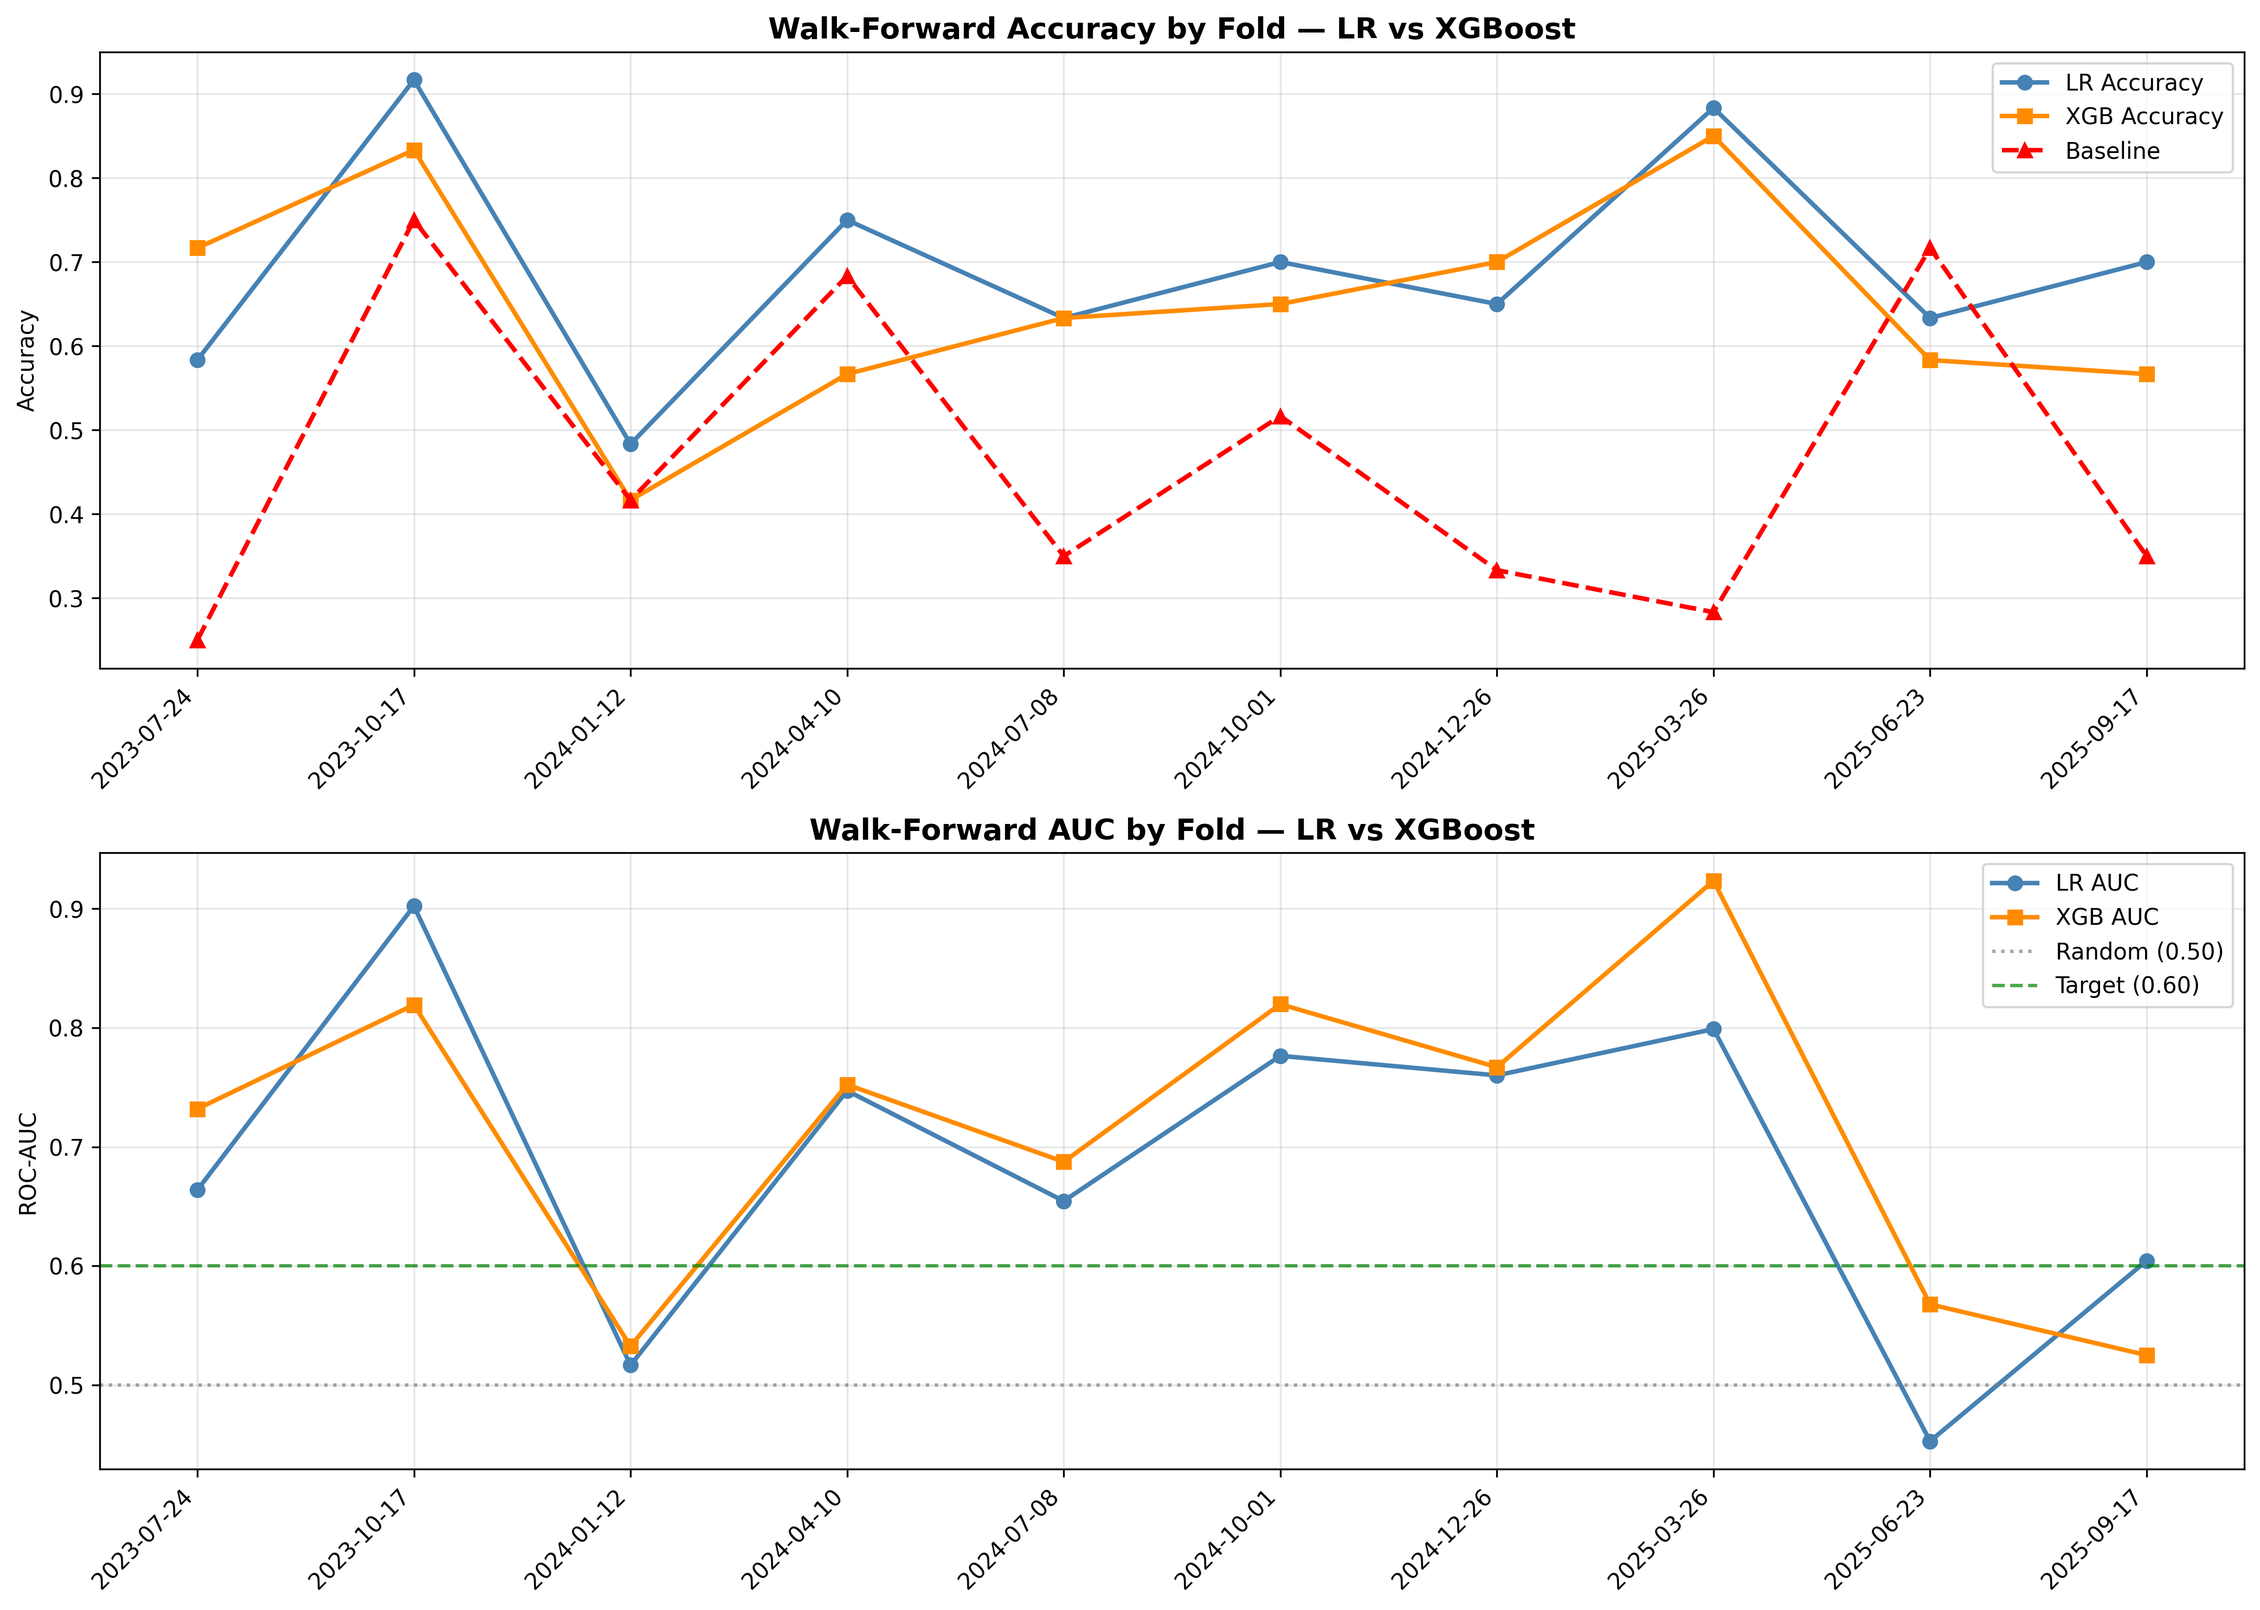
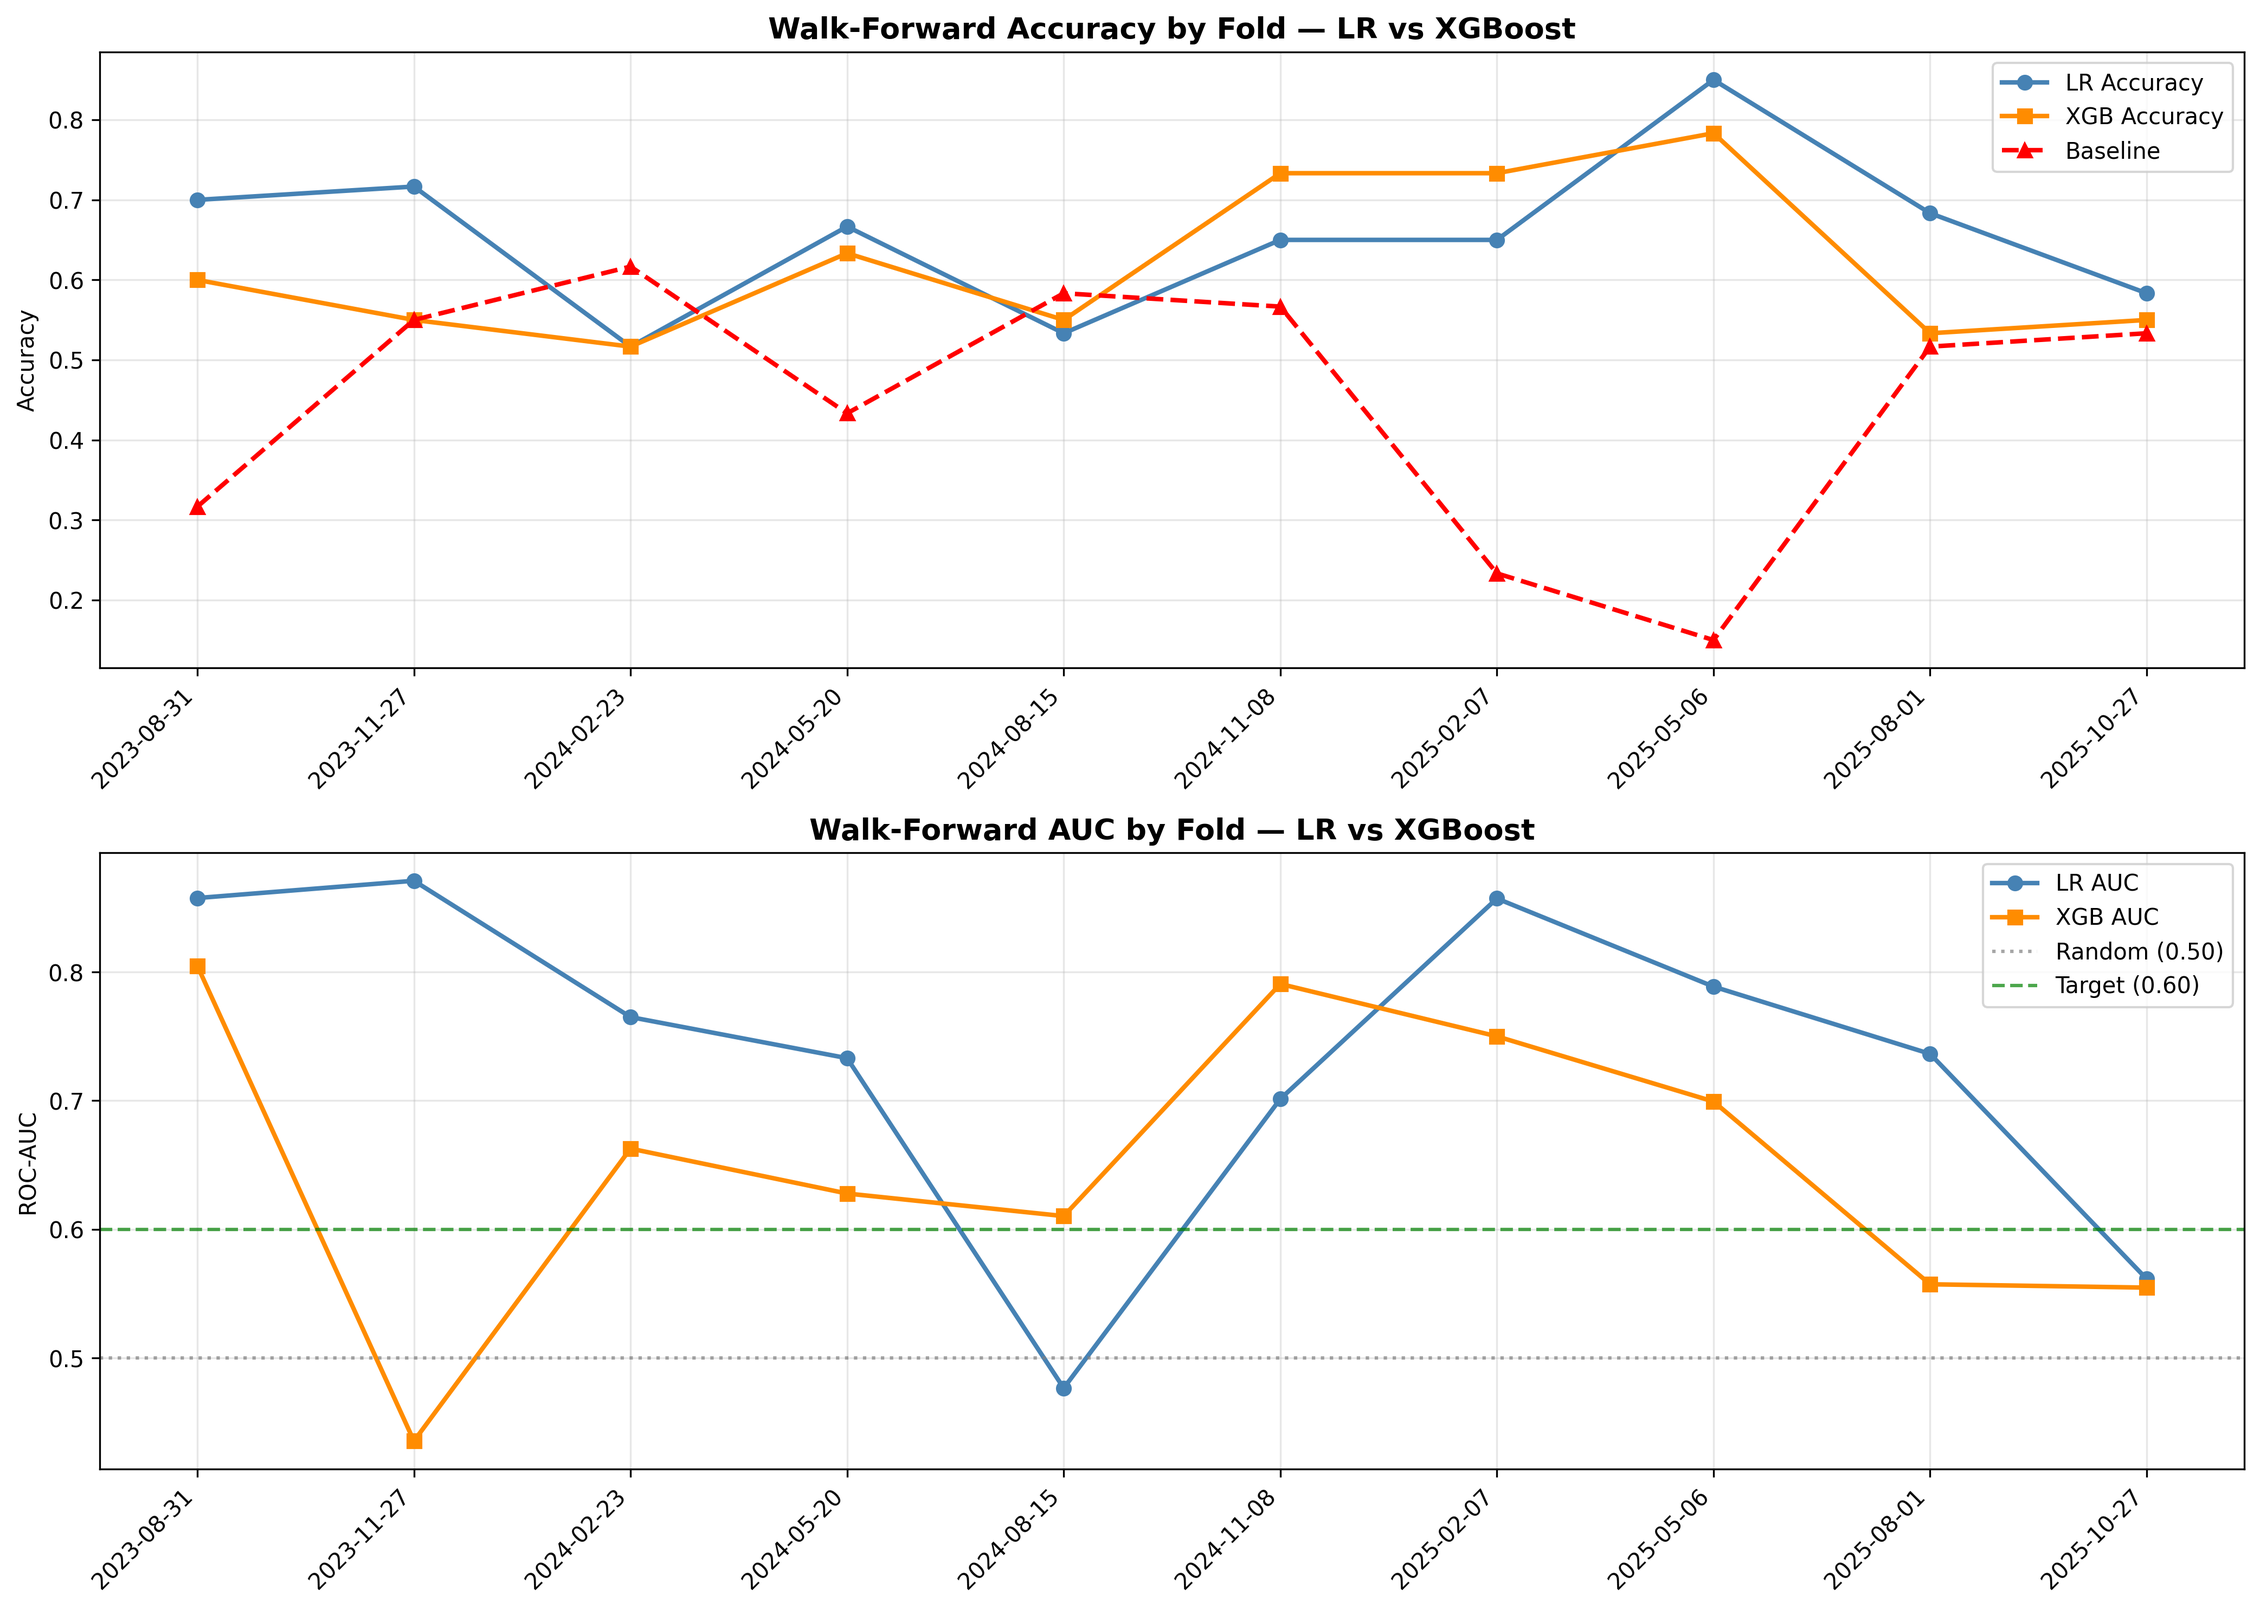
Update README and walk-forward results with 18-feature model
Made-with: Cursor

diff --git a/README.md b/README.md
@@ -1,33 +1,72 @@
 # Volatility Regime Predictor
 
-End-to-end ML pipeline for predicting S&P 500 volatility regimes using
-Logistic Regression, XGBoost, and an Ensemble model — validated with
-walk-forward cross-validation across 10 out-of-sample periods.
+End-to-end ML pipeline that predicts whether the S&P 500 will enter a
+**high or low volatility regime** over the next 10 trading days — and runs
+a fresh prediction every day with a live options strategy signal.
 
-**Avg Ensemble AUC: 0.722 | Beats baseline in 9/10 walk-forward folds**
+Built with Logistic Regression + XGBoost ensemble, validated with
+walk-forward cross-validation across 10 out-of-sample periods spanning 2023–2026.
+
+**Avg Ensemble AUC: 0.730 | Beats baseline in 9/10 walk-forward folds | +20pp accuracy improvement over baseline**
 
 ---
 
-## Results
+## Results (Walk-Forward Validation)
+
+> Walk-forward validation simulates real trading: models are trained only on past data
+> and evaluated on future unseen periods. No lookahead bias.
 
 | Model | Avg AUC | Avg Accuracy | Folds Beat Baseline |
 |-------|---------|--------------|---------------------|
-| Logistic Regression | 0.688 | 69.3% | 9 / 10 |
-| XGBoost | 0.713 | 65.2% | 7 / 10 |
-| **Ensemble** | **0.722** | **67.8%** | **8 / 10** |
+| Logistic Regression | 0.735 | 65.5% | 8 / 10 |
+| XGBoost | 0.649 | 61.8% | 7 / 10 |
+| **Ensemble** | **0.730** | **62.7%** | **9 / 10** |
+
+Avg baseline (predict majority class): **45.0%**
 
 ---
 
 ## Key Findings
 
-- **Direction prediction failed** (AUC ≈ 0.49) — consistent with the
-  Efficient Market Hypothesis
-- **Volatility regime prediction works** (Avg AUC 0.722) — volatility
-  clusters, and VIX-based features capture this signal
-- **Best signal during market stress** — Ensemble AUC hit 0.974 during
-  the April 2025 tariff-driven volatility spike
-- **Known limitation** — models struggle after sudden volatility collapse
-  (Summer 2025 post-tariff calm)
+- **Direction prediction doesn't work** (AUC ≈ 0.50) — consistent with EMH
+- **Volatility regime prediction does** (Avg AUC 0.730) — vol clusters, and
+  VIX-based features capture this reliably
+- **Strongest signal during stress** — Ensemble AUC hit 0.908 during the
+  Feb–May 2025 tariff-driven volatility spike
+- **Known edge case** — models lag after sudden vol collapse (post-stress
+  calm periods), a structural challenge for any regime model
+
+---
+
+## Daily Prediction
+
+Running `predict_today.py` downloads fresh market data, computes all features,
+and outputs a calibrated probability with an options strategy signal:
+
+```
+TODAY'S VOLATILITY REGIME PREDICTION
+
+Run time: 2026-04-13 13:26:26
+
+Prediction for: 2026-04-13
+   SPY Close:   $686.13
+   VIX Level:   19.18
+   Realized Vol (20d): 19.7%
+
+Model Probabilities (High Vol):
+   Logistic Regression: 0.327
+   XGBoost:             0.163
+   Ensemble:            0.245
+
+Predicted Regime:   LOW VOLATILITY
+   High-vol probability: 24.5%  [Strong]
+
+Options Implication:
+   → Consider SHORT options (iron condors, covered calls)
+   → Low vol expected — collect theta decay
+```
+
+Predictions are logged to `prediction_log.csv` with deduplication on same-day re-runs.
 
 ---
 
@@ -38,48 +77,71 @@ walk-forward cross-validation across 10 out-of-sample periods.
 | High vol regime predicted | Long options (straddles, strangles) | Benefit from IV expansion |
 | Low vol regime predicted | Short options (iron condors, covered calls) | Collect theta in calm markets |
 
+Signal strength is reported as **Strong / Moderate / Weak** based on distance
+from the 0.5 decision boundary, so position sizing can be adjusted accordingly.
+
+---
+
+## Features (18 total)
+
+| Category | Features |
+|----------|----------|
+| **Price Momentum** | 1d, 5d, 10d, 20d SPY returns |
+| **Technical** | RSI-14, Bollinger Band z-score |
+| **Trend** | Price vs MA50, Price vs MA200 |
+| **VIX** | Level, 1d return, MA10/MA20 ratio, 60d percentile, spike flag |
+| **VIX Term Structure** | VIX9D / VIX ratio — backwardation signals near-term fear |
+| **Vol Risk Premium** | VIX − realized vol — measures excess fear pricing |
+| **Realized Volatility** | 10d and 20d annualized realized vol |
+| **Volume** | Volume ratio vs 20d average |
+
+Top features by XGBoost importance: `vix_percentile`, `vol_risk_premium`,
+`price_vs_ma50`, `spy_return_10d`, `realized_vol_10d`
+
+---
+
+## Probability Calibration
+
+Raw model probabilities are post-processed with **Platt scaling** (logistic
+regression fitted on the validation set). This maps model output to empirically
+grounded probabilities — P=0.25 means roughly 25% of historically similar
+days resulted in a high-vol regime, making the output directly useful for
+position sizing.
+
 ---
 
 ## Project Structure
 
 ```
 volatility-regime-predictor/
-├── collect_data.py          # Downloads SPY + VIX data via yFinance
-├── create_features.py       # Feature engineering + volatility target
-├── train_model.py           # Logistic Regression training + evaluation
-├── train_xgboost.py         # XGBoost training + evaluation
-├── walk_forward.py          # Walk-forward validation (LR vs XGBoost)
-├── ensemble.py              # Ensemble model (averaged probabilities)
+├── predict_today.py         # Live daily prediction with options signal
+├── create_features.py       # Feature engineering + volatility target (18 features)
+├── train_model.py           # Logistic Regression + Platt calibration
+├── train_xgboost.py         # XGBoost + Platt calibration
+├── walk_forward.py          # Walk-forward validation (10 folds)
+├── ensemble.py              # Ensemble evaluation
+├── collect_data.py          # Downloads SPY options chain data
+├── diagnostic.py            # Threshold analysis on saved model
 ├── requirements.txt
 └── README.md
 ```
 
 ---
 
-## Features Used
-
-| Category | Features |
-|----------|----------|
-| **Price Momentum** | 1d, 5d, 10d, 20d returns |
-| **Technical** | RSI-14, Bollinger Band position |
-| **Trend** | Price vs MA50, Price vs MA200 |
-| **Volatility** | Realized vol 10d & 20d |
-| **VIX** | VIX level, 1d return, MA ratio, 60d percentile |
-| **Volume** | Volume ratio vs 20d average |
-
----
-
 ## Setup
 
 ```bash
-# Install dependencies
 pip install -r requirements.txt
 
-# Run pipeline in order
-python collect_data.py
-python create_features.py
-python train_model.py
-python train_xgboost.py
+# Run a prediction immediately (models are pre-trained and included)
+python predict_today.py
+
+# To retrain on fresh data
+python create_features.py   # regenerates features.csv
+python train_model.py       # retrains LR + calibrator
+python train_xgboost.py     # retrains XGBoost + calibrator
+
+# To re-run validation
 python walk_forward.py
 python ensemble.py
 ```
